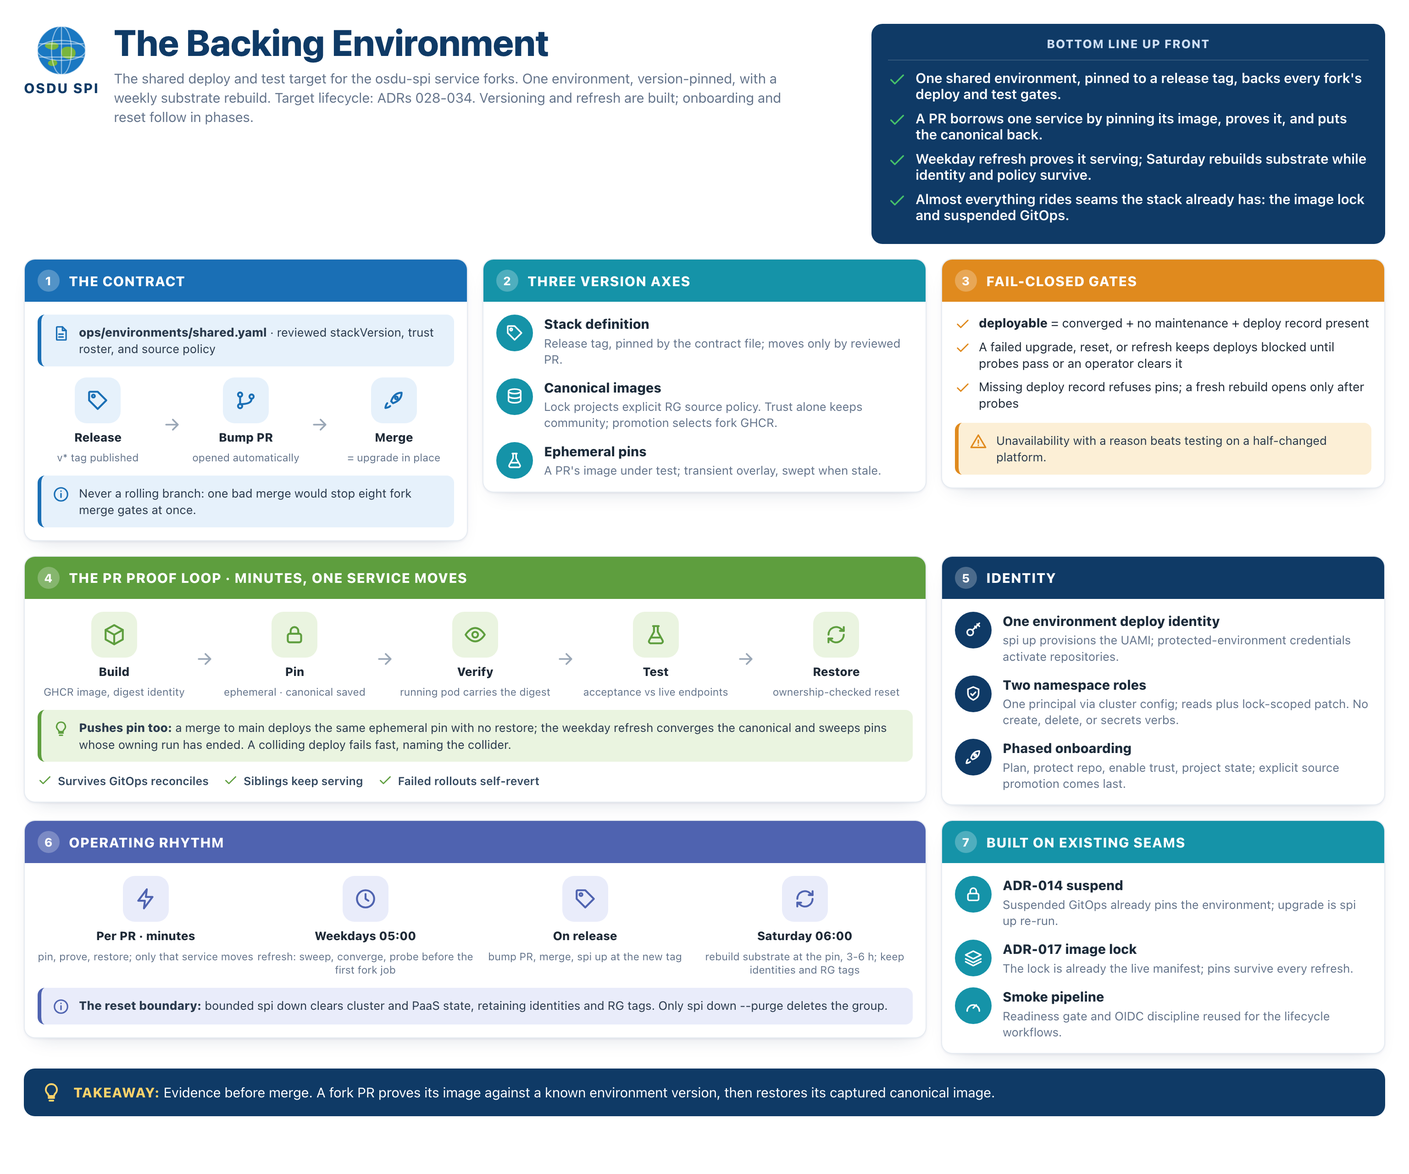
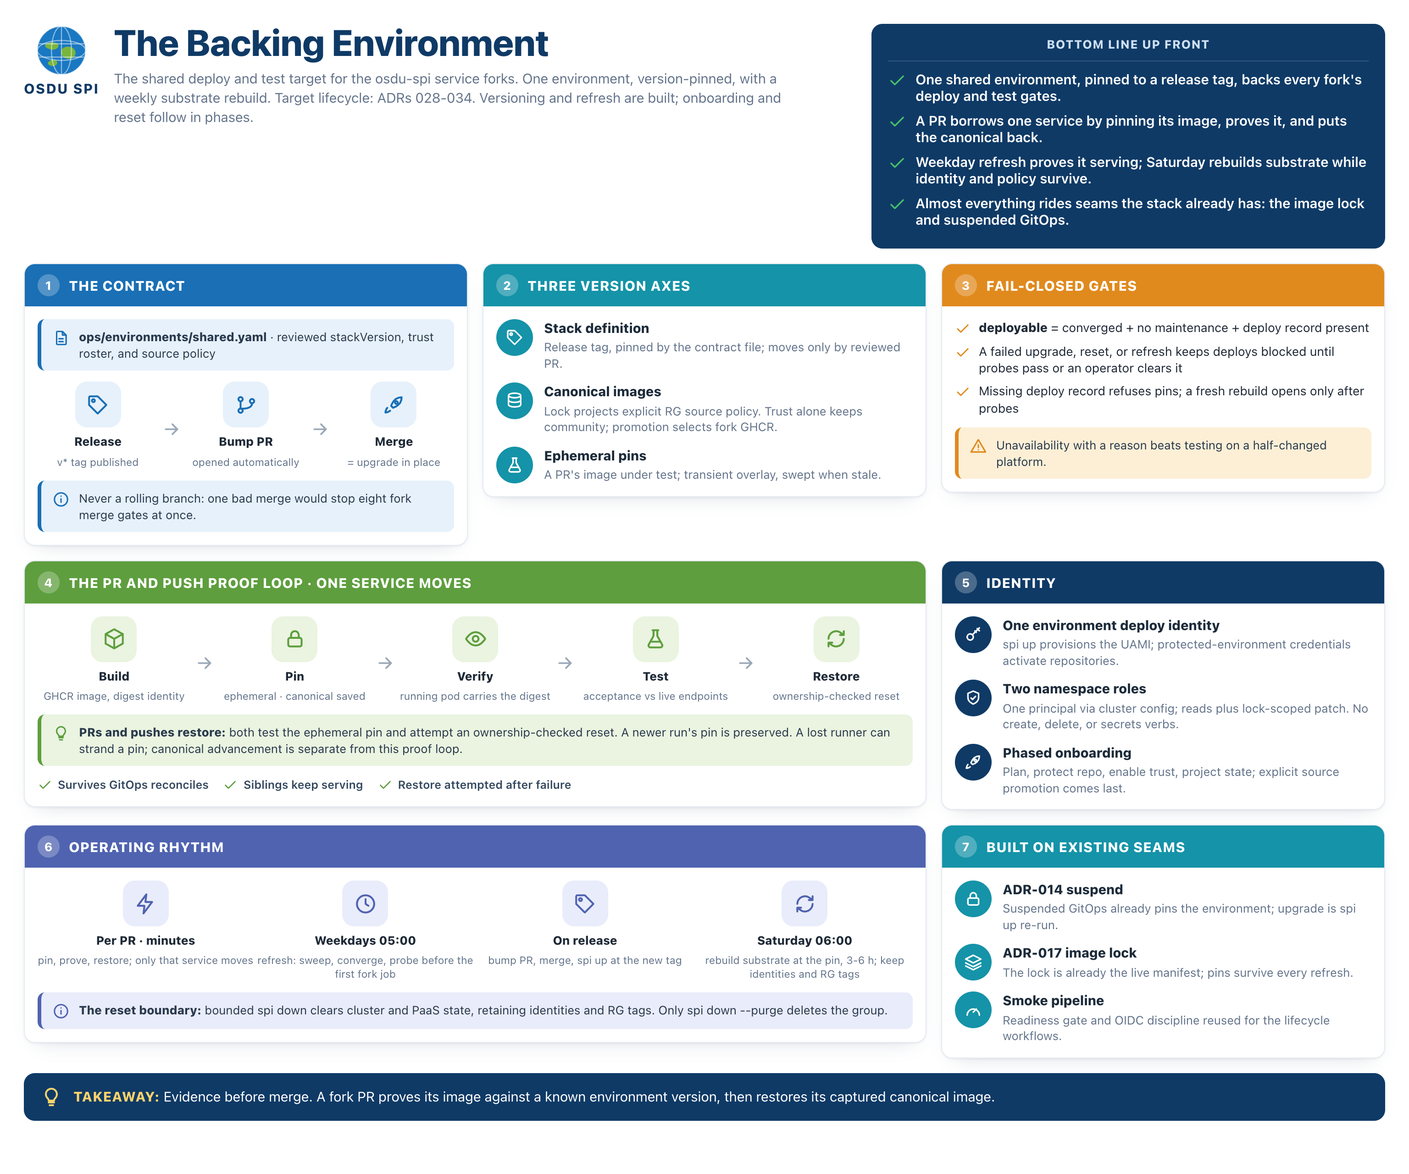
docs: align fork deployment with the shipped template lane (#218)

Changed region(s): [[0.0, 0.0312, 0.9688, 0.9688]]

diff --git a/docs/diagrams/environment-lifecycle.html b/docs/diagrams/environment-lifecycle.html
@@ -249,7 +249,7 @@
   <!-- row 2 -->
   <div class="grid">
     <div class="panel a-green span-2">
-      <div class="p-head"><span class="p-num">4</span> The PR Proof Loop · Minutes, One Service Moves</div>
+      <div class="p-head"><span class="p-num">4</span> The PR and Push Proof Loop · One Service Moves</div>
       <div class="p-body">
         <div class="flow">
           <div class="flow-step"><div class="fs-icon"><svg class="icon"><use href="#cube"/></svg></div><div class="fs-title">Build</div><div class="fs-sub">GHCR image, digest identity</div></div>
@@ -262,11 +262,11 @@
           <div class="flow-arrow"><svg class="icon"><use href="#arrow-right"/></svg></div>
           <div class="flow-step"><div class="fs-icon"><svg class="icon"><use href="#refresh"/></svg></div><div class="fs-title">Restore</div><div class="fs-sub">ownership-checked reset</div></div>
         </div>
-        <div class="note a-green"><svg class="icon"><use href="#idea"/></svg><span><span class="b">Pushes pin too:</span> a merge to main deploys the same ephemeral pin with no restore; the weekday refresh converges the canonical and sweeps pins whose owning run has ended. A colliding deploy fails fast, naming the collider.</span></div>
+        <div class="note a-green"><svg class="icon"><use href="#idea"/></svg><span><span class="b">PRs and pushes restore:</span> both test the ephemeral pin and attempt an ownership-checked reset. A newer run's pin is preserved. A lost runner can strand a pin; canonical advancement is separate from this proof loop.</span></div>
         <div class="chips">
           <span class="chip"><svg class="icon"><use href="#check"/></svg> Survives GitOps reconciles</span>
           <span class="chip"><svg class="icon"><use href="#check"/></svg> Siblings keep serving</span>
-          <span class="chip"><svg class="icon"><use href="#check"/></svg> Failed rollouts self-revert</span>
+          <span class="chip"><svg class="icon"><use href="#check"/></svg> Restore attempted after failure</span>
         </div>
       </div>
     </div>

diff --git a/docs/design/fork-deployment.md b/docs/design/fork-deployment.md
@@ -18,76 +18,66 @@ ownership-checked `reset --if-run`, the separate stale sweep
 roster-derived pin validation, repository-derived GHCR package validation)
 are implemented.
 Phase 4 source policy (`--canonical-source`, the `spi-source-<service>`
-tags), declaration enforcement, `spi service refresh`, the refresh
-workflow's backstop step, and the fork-side jobs are ahead of the code
+tags), declaration enforcement, `spi service refresh`, and the refresh
+workflow's backstop step are ahead of the code
 (phases 4 and 5 of the roadmap in
 [environment-lifecycle.md](environment-lifecycle.md)). Remove the marks as
 they land.
 
 ## The sequence
 
-Each job authenticates fresh (the OIDC JWT lives ~5 minutes; one
-`azure/login` per job, the smoke pipeline's discipline) and installs the
-`spi` wheel matching the environment's declared `stackVersion`, read from
-`ops/environments/shared.yaml` on the stack's `main`, so the client never
-skews ahead of the cluster contract (ADR-031).
+The template's [validation workflow](https://github.com/Azure/osdu-spi/blob/main/.github/template-workflows/validate.yml)
+implements one credentialed `deploy-test` job, described by
+[ADR-041](https://github.com/Azure/osdu-spi/blob/main/doc/src/adr/041-borrow-prove-restore-lane.md).
+It runs for eligible same-repository pull requests and pushes to `main` or
+`fork_integration`. A separate `deploy-gate` reports eligibility or a skip
+reason, including missing onboarding values, descriptor, or published image,
+and an acceptance build reporting that the descriptor declares no test suite.
+Outside-repository PRs do not enter the credentialed lane.
 
-1. **Authenticate.** The deploy and test jobs run in the fork's
-   `spi-stack` GitHub environment, the subject of the federated credential
-   `spi onboard` added to the environment's deploy identity (ADR-032);
-   `azure/login@v3` uses `AZURE_CLIENT_ID` and the tenant and subscription
-   variables, which are the same for every fork trusting that environment.
-2. **Connect.** `spi connect --resource-group $SPI_STACK_RESOURCE_GROUP
-   --cluster $SPI_STACK_CLUSTER` wraps the hardened kubeconfig
-   sequence living in `src/spi/azure_infra.py`: `az aks get-credentials`,
-   `kubelogin convert-kubeconfig -l azurecli`, tenant-pinned exec
-   environment. The context name carries the `spi-stack` prefix, so
-   `guard.verify_spi_cluster()` passes without `SPI_SKIP_GUARD`.
-3. **Gate.** `spi status --json`; exit 0 means deployable and the
-   job proceeds, exit 2 names the blocker: a convergence failure, the
-   `maintenance` flag, or a missing deploy record (ADR-029, ADR-030).
-4. **Deploy.** PR and push events run the same command; the fork build
-   publishes to `ghcr.io/<lowercase-owner>/<service>`, where the owner comes
-   from the fork repository and `SERVICE` is its short `SERVICE_NAME`
-   (ADR-033):
+1. **Authenticate and install.** The job uses `azure/login` as the deploy
+   identity in the fork's `spi-stack` GitHub environment. It installs the latest
+   released `spi` wheel to reach the environment.
+2. **Connect and match versions.** `spi connect` uses the repository's resource
+   group and cluster pointers. The job reads `environment.stackVersion` from
+   `spi status --json` and installs that exact release when it names a release
+   tag. Branch-based or unrecorded versions keep the latest release; the job
+   does not read a hardcoded shared-environment declaration.
+3. **Gate.** The job polls `spi status --json` every 20 seconds for up to ten
+   minutes until `deployable` is true. On timeout it reports the status reason,
+   including maintenance or convergence failures. It then reads environment
+   facts with `spi info --json`.
+4. **Borrow.** `spi service pin` writes the published service image by digest
+   with `--ephemeral`, the workflow run id, and source provenance. Flux
+   reconciles the image-lock change. A pin refusal while the environment is
+   not deployable is retried for up to ten minutes; a refusal while deployable
+   fails immediately.
+5. **Verify.** The job polls `spi service verify` until the expected digest is
+   live, with a 15-minute limit. `lock_mismatch` fails immediately. The CLI
+   checks the Deployment's template, a running pod's `imageID`, and rollout
+   completion. The lane does not perform another verify immediately before
+   each suite.
+6. **Prove.** The descriptor resolver binds each suite's inputs from environment
+   facts and minted tokens. The job runs each declared suite from the acceptance
+   image under its own timeout. Surefire and Failsafe reports establish the
+   verdict: zero exit status, at least one non-skipped test, and no failures
+   or errors. A successful container exit alone is insufficient.
+7. **Restore.** After both PR and push tests, the Restore step runs even after
+   earlier failure when CLI installation succeeded. It calls
+   `spi service reset` with `--if-run` and the workflow run id. Reset changes
+   the pin only while that run still owns it, preserving a newer run's pin.
+   Exit 2 is an ownership/no-pin refusal treated as success by the lane;
+   exit 1 is a restore failure. A lost runner can still strand a pin.
 
-   ```bash
-   IMAGE_OWNER=$(printf '%s' "$GITHUB_REPOSITORY_OWNER" | tr '[:upper:]' '[:lower:]')
-   spi service pin "$SERVICE" \
-     --image "ghcr.io/${IMAGE_OWNER}/${SERVICE}@${DIGEST}" \
-     --ephemeral --run-id "$GITHUB_RUN_ID" \
-     --source-repo "$GITHUB_REPOSITORY" --source-sha "$GITHUB_SHA" \
-     --source-run-url "$RUN_URL"
-   ```
+Key Vault binding materialization and pre-borrow checks of descriptor loads,
+groups, and dependencies are not wired into the lane. The resolver accepts
+those contract fields, but this does not establish that the environment meets
+them. See [template #175](https://github.com/Azure/osdu-spi/issues/175) and
+[template #176](https://github.com/Azure/osdu-spi/issues/176).
 
-   Push events skip the restore job; the weekday refresh converges the
-   canonical afterward, forward to the fork's `main` once the service has
-   flipped (ADR-031, ADR-033).
-5. **Verify.** `spi service verify "$SERVICE" --image <ref>`
-   asserts the Deployment's pod template and a running pod's `imageID` carry
-   the digest and the rollout is complete. Deployment and container names
-   default to `osdu-<service>`, the Flux Helm release name;
-   `K8S_DEPLOYMENT_NAME` and `K8S_CONTAINER_NAME` cover deviants. With
-   `--json` the last stdout line is a `{outcome, code, detail}` envelope;
-   exit 2 carries the typed code, exit 1 means the cluster was unreachable.
-   A verified envelope also carries `environment` (name, stack version,
-   profile), the same block `spi status --json` and `spi info --json`
-   publish, so the job's verdict can name the environment that proved it.
-6. **Test.** The integration-test job re-runs the verify as a pre-flight
-   (the cross-pipeline guard: a colliding deploy fails fast, naming the
-   colliding run from the pin annotation), resolves endpoints from
-   `spi info --json`, resolves the secret map from Key Vault, health-gates
-   the declared dependencies, then runs the suite. Its callers are the two
-   stack identities, minted per run and never stored; see the two-token
-   recipe below.
-7. **Restore.** An always-run job on PR pipelines:
-   `spi service reset "$SERVICE" --if-run "$GITHUB_RUN_ID"`. The reset is
-   conditional on ownership: it acts only while the live pin's `run_id` still
-   matches, so a newer run's pin is left standing. Exit 0 means restored;
-   exit 2 is the typed no-op refusal (`run_mismatch` when another pin owns
-   the slot, `not_pinned` when nothing remains), which the restore job
-   treats as success; exit 1 is a real failure. `--json` emits the same
-   final-line `{outcome, code, detail}` envelope.
+Both PR and push tests restore the captured canonical image. Advancing the
+canonical image follows the environment's source policy and refresh lifecycle;
+a successful push test does not leave its candidate image installed.
 
 ## Pin annotation schema
 
@@ -130,10 +120,10 @@ workflow step is unbuilt; the sweep verb exists):
 - `spi service refresh` (unbuilt) per GitHub-origin service then advances
   the environment to the current retained canonical (ADR-033).
 
-A pin swept mid-run cannot happen silently: the test job's pre-flight verify
-fails with the pin's replacement named, and the re-run is the recovery.
-Push-deployed pins are swept the same way; after a service's flip the
-refresh resolves the same or a newer `main` image, so nothing regresses.
+The post-pin verify detects a replacement observed during that step. There is
+no second verification before each suite, so replacement after verification
+is not covered by that check. A stranded push-test pin follows the same
+recovery path as a stranded PR-test pin.
 
 ## Fork repository configuration
 
@@ -141,15 +131,22 @@ refresh resolves the same or a newer `main` image, so nothing regresses.
 |---|---|---|
 | `AZURE_CLIENT_ID` (secret), `AZURE_TENANT_ID`, `AZURE_SUBSCRIPTION_ID` | `spi onboard`, or by hand from `spi info` | the environment's deploy identity and its home; identical for every fork in an organization, so `--org` sets them once |
 | `SPI_STACK_RESOURCE_GROUP`, `SPI_STACK_CLUSTER` | `spi onboard`, or by hand from `spi info` | environment coordinates for `spi connect` |
-| `K8S_DEPLOYMENT_NAME`, `K8S_CONTAINER_NAME` | operator, rarely | verify targets; default to `osdu-<service>` |
-| `ACCEPTANCE_TEST_DIR` | operator | Maven module path of the suite |
-| `ACCEPTANCE_TEST_SECRET_MAP` | operator | `ENV_VAR=keyvault-secret-name` pairs; an unknown or unresolvable entry fails the job before Maven starts |
-| `ACCEPTANCE_TEST_DEPENDENCIES` | operator | services whose health endpoints gate the suite; also absorbs a sibling's rolling restart |
+| `.spi/service.yaml` | service repository | versioned suite paths, Maven arguments, bindings, and declared requirements |
+
+Suite configuration lives in the descriptor. The current lane does not consume
+`ACCEPTANCE_TEST_DIR`, `ACCEPTANCE_TEST_SECRET_MAP`, or
+`ACCEPTANCE_TEST_DEPENDENCIES` repository variables. The CLI supports
+`K8S_DEPLOYMENT_NAME` and `K8S_CONTAINER_NAME` environment overrides, but the
+lane does not export those repository variables.
 
 The repository-to-package mapping is deterministic: onboarding `partition`
 from `<owner>/<fork>` selects `ghcr.io/<lowercase-owner>/partition`, even
 when the repository basename is not `partition`. The descriptor's
-`SERVICE_NAME` must match the short service identifier. The build publishes
+`service.name` must match the workflow's effective service identifier:
+`SERVICE_NAME` when set, otherwise the repository name. A repository named
+`osdu-spi-partition` therefore needs `SERVICE_NAME=partition` to target the
+`partition` service and package; the workflow does not read the descriptor
+to choose this fallback. The build publishes
 that public package, the deploy job pins it by digest, and canonical refresh
 resolves its `main` line after promotion. No separate package-path state or
 Azure namespace fallback is involved.
@@ -246,18 +243,28 @@ projections during bootstrap. A standing environment changes its resolved
 image only on refresh; policy changes and projection repairs preserve active
 pins and their captured restore targets.
 
-Once trust, the five values, and the descriptor are present, the template's
-readiness tooling activates the reserved required checks `🚀 Deploy to
-spi-stack` and `🧪 Integration Tests` on the fork; the jobs themselves live
-in the template's workflows, not in this repo. The first run of those jobs
-is the verification: onboard cannot mint the fork's OIDC token itself. The
-shared environment's source promotion follows a successful deploy and test
-run with those gates active.
+Once trust, the five values, and the descriptor are present, the next eligible
+build can enter `deploy-test`. The template's `validation-summary` job reports
+build, push, and deploy results through the required Validation Summary check.
+A skipped deploy lane can leave that summary green, so inspect the gate reason
+and suite results to establish live acceptance coverage. Separate reserved
+`Deploy to spi-stack` and `Integration Tests` checks are not the shipped lane's
+required-check model. A successful lane run proves the fork can authenticate,
+borrow, test, and attempt restoration; onboarding cannot mint the fork's OIDC
+token to prove those steps itself.
 
 ## Recipes
 
-Mint the three test callers in fork CI. The deploy identity is the positive
-caller: the `entitlements-members` Job adds its client id to `users`,
+The stack provisions three test identities and the CLI can mint each with
+`spi token`, `spi token --member`, or `spi token --no-access`. The shipped
+  (`RESOLVER_NO_ACCESS_TOKEN`) and, when provisioned, member-token
+  (`RESOLVER_MEMBER_TOKEN`) bindings. Template PR #190 is merged, so suites
+  requiring the member caller can use it with a template revision that includes
+  that support.
+includes that support.
+
+The deploy identity is the positive caller: the `entitlements-members` Job
+adds its client id to `users`,
 `users.datalake.ops`, `users.datalake.admins`, `users.data.root`, and
 `users.datalake.delegation` for every partition, creating the delegation group
 and `users.datalake.impersonation` first when the Azure tenant bootstrap has
@@ -271,7 +278,7 @@ suites name `NO_ACCESS_USER`: the same Job seeds it into `users` and every
 role, and entitlements answers its admin-only requests with 403. The
 no-access identity belongs to no group at all, and entitlements answers it
 with 401 before any group check; suites use it where they expect an
-unknown caller. All three tokens are minted for `azure.token_audience`, read
+unknown caller. The CLI mints each caller for `azure.token_audience`, read
 per run because it depends on the environment: the management audience by
 default, or an operator's app registration. The Istio identity filter
 projects each token's own application id, so the three callers reach
@@ -281,23 +288,14 @@ Partition is not a witness for either caller. Its Azure provider admits any
 app-only token from the tenant and refuses any token that names a user, so
 the no-access identity gets 200 there and a human's own token gets 403.
 
-```yaml
-- id: facts
-  run: |
-    spi info --json > facts.json
-    echo "audience=$(jq -r .azure.token_audience facts.json)" >> "$GITHUB_OUTPUT"
-    echo "member=$(jq -r .deploy_identity.member_client_id facts.json)" >> "$GITHUB_OUTPUT"
-    echo "noaccess=$(jq -r .deploy_identity.no_access_client_id facts.json)" >> "$GITHUB_OUTPUT"
-- uses: azure/login@v2            # the deploy identity, AZURE_CLIENT_ID from the repository
-  with: { client-id: ${{ secrets.AZURE_CLIENT_ID }}, tenant-id: ..., subscription-id: ... }
-- run: echo "TOKEN=$(az account get-access-token --resource ${{ steps.facts.outputs.audience }} --query accessToken -o tsv)" >> "$GITHUB_ENV"
-- uses: azure/login@v2            # the member identity holds no subscription role
-  with: { client-id: ${{ steps.facts.outputs.member }}, tenant-id: ..., allow-no-subscriptions: true }
-- run: echo "MEMBER_TOKEN=$(az account get-access-token --resource ${{ steps.facts.outputs.audience }} --query accessToken -o tsv)" >> "$GITHUB_ENV"
-- uses: azure/login@v2            # the no-access identity holds no subscription role
-  with: { client-id: ${{ steps.facts.outputs.noaccess }}, tenant-id: ..., allow-no-subscriptions: true }
-- run: echo "NO_ACCESS_TOKEN=$(az account get-access-token --resource ${{ steps.facts.outputs.audience }} --query accessToken -o tsv)" >> "$GITHUB_ENV"
-```
+The template's Mint test callers step exchanges the run's OIDC token directly
+with Entra for additional callers, preserving the deploy identity's Azure CLI
+session for Restore. Switching the job's Azure CLI login to a test-only identity
+would leave Restore without the deploy identity. Use the
+[workflow implementation](https://github.com/Azure/osdu-spi/blob/main/.github/template-workflows/validate.yml)
+and its resolver binding contract for the callers supported by the deployed
+template revision. Provisioning a stack identity alone does not wire it into a
+service's CI lane.
 
 Hand-pin a fork image against a standing environment and return it:
 

diff --git a/docs/decisions/031-fork-image-deploys-as-ephemeral-pins.md b/docs/decisions/031-fork-image-deploys-as-ephemeral-pins.md
@@ -37,11 +37,10 @@ annotation schema live in `docs/design/fork-deployment.md`.
   `reconcile.fluxcd.io/watch: Enabled` label, so Flux reconciles the
   consuming Kustomizations when the ConfigMap changes; fork CI mutates
   nothing in Flux and holds no Flux write permission (ADR-032).
-- **Verified deploys.** Deploy success is the running pod carrying the
-  digest, asserted by the CLI after the pin and re-asserted by the test job
-  before it runs, so a deploy overwritten by a colliding pipeline fails fast,
-  naming the colliding run from the pin annotation, instead of producing a
-  silently wrong test result.
+- **Verified deploys.** The CLI verifies the running image digest after the
+  pin, before the lane mints callers and runs suites. The shipped lane does
+  not re-assert the digest immediately before each suite; a replacement
+  after verification is outside that check's coverage.
 - **Ownership-conditional return.** The always-run restore resets a pin only
   while the live pin still belongs to its own workflow run; a newer run's pin
   is left standing. The weekday backstop (ADR-029) sweeps only ephemeral pins
@@ -49,11 +48,11 @@ annotation schema live in `docs/design/fork-deployment.md`.
   threshold when that state is unreachable. Operator pins never carry the
   marker and are never swept.
 - **Push builds deploy the same way.** A push to a trusted branch pins its
-  digest ephemerally with no restore job; the weekday refresh then converges
-  the canonical under the service's source policy (ADR-033), backward to the
-  community image before a service's flip and forward to its fork `main`
-  after it. One deploy path, and the template never needs to know a
-  service's flip state.
+  digest ephemerally, tests it, and attempts ownership-checked restoration,
+  as a pull request does. The template's
+  [ADR-041](https://github.com/Azure/osdu-spi/blob/main/doc/src/adr/041-borrow-prove-restore-lane.md)
+  owns this lane. Canonical advancement follows the service's source policy
+  (ADR-033) and environment refresh, independently of the test transaction.
 - **Digest rendering.** The `osdu-spi-service` chart accepts `image.digest`
   and renders `repository@digest` when present, `repository:tag` otherwise
   (ADR-017); GitLab-resolved canonicals gain pull-by-digest against upstream
@@ -91,9 +90,9 @@ services under the same owner, the mechanism ADR-017 already declined.
 
 ## Consequences
 
-- A test job can still observe a sibling service's rolling restart mid-run;
-  the acceptance jobs' dependency health gate absorbs the window rather than
-  any lock preventing it. A candidate that passes readiness but is
+- A test job can still observe a sibling service's rolling restart mid-run.
+  The shipped lane does not enforce descriptor dependency health checks,
+  so that window can fail the suite. A candidate that passes readiness but is
   behaviorally broken can also fail a concurrently running sibling suite;
   the exposure lasts until the pin's restore or sweep, and the accepted
   recovery is that sibling's re-run, not isolation.
@@ -106,9 +105,10 @@ services under the same owner, the mechanism ADR-017 already declined.
 - Chart-contract changes do not ride this seam: a service PR that needs a new
   env var or chart behavior lands a stack PR first, the environment picks it
   up on upgrade, and the fork PR deploys against it.
-- Fork CI becomes a CLI consumer: the deploy job installs the wheel matching
-  the environment's declared `stackVersion` (read from the declaration file
-  on the stack's `main`), so the client and the cluster contract move
-  together rather than latest-wheel skewing ahead of an unbumped or
-  rolled-back environment. Annotation-schema changes must still keep old
-  pins decodable across the bump window.
+- Fork CI becomes a CLI consumer: the deploy job installs the latest release
+  to connect, reads `environment.stackVersion` from `spi status --json`, and
+  installs the matching wheel when the value names a release tag. Branch or
+  unrecorded versions keep the latest release. Version discovery comes from
+  the connected environment, not a declaration file on the stack's `main`.
+  Annotation-schema changes must still keep old pins decodable across the
+  bump window.

diff --git a/docs/design/environment-lifecycle.md b/docs/design/environment-lifecycle.md
@@ -287,9 +287,10 @@ gh run watch
    credential, the roster projection with roster-derived pin validation) are
    built. Still unbuilt: `--canonical-source` and the source-policy phase,
    `forks:` and the declaration locator with pre-resolution intent loading;
-   onboard `osdu-spi-partition` with a community canonical; the
-   template-side deploy, integration-test, and restore jobs under the reserved
-   check names.
+   onboard `osdu-spi-partition` with a community canonical. The template
+   implements one `deploy-test` job with borrow, prove, and restore steps;
+   `validation-summary` reports its result through the required summary check.
+   See [fork deployment](fork-deployment.md#the-sequence).
 5. **Canonical promotions** (unbuilt): explicit per-service source policy in
    RG tags and its lock projection; on the shared environment a reviewed
    `canonicalSource: fork` change after the deploy and test gates pass
